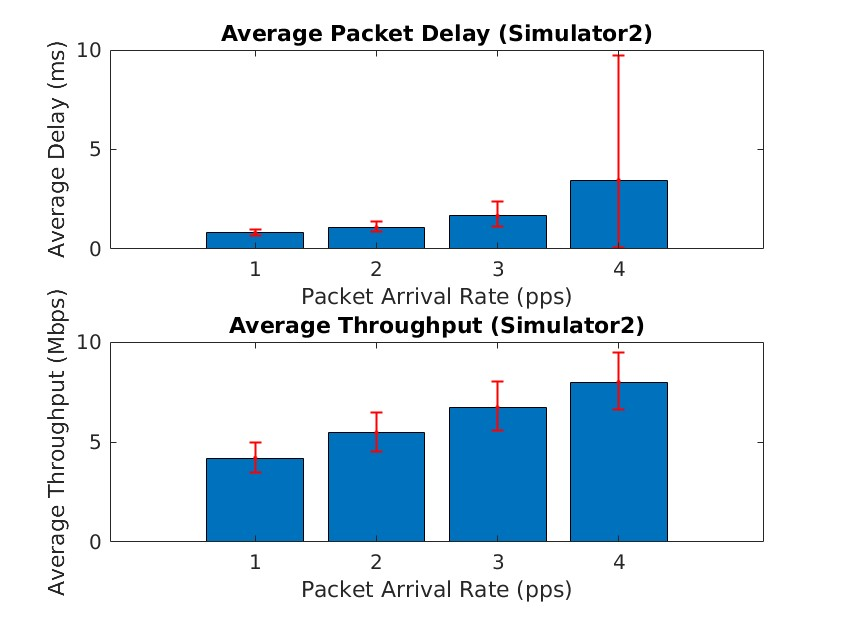
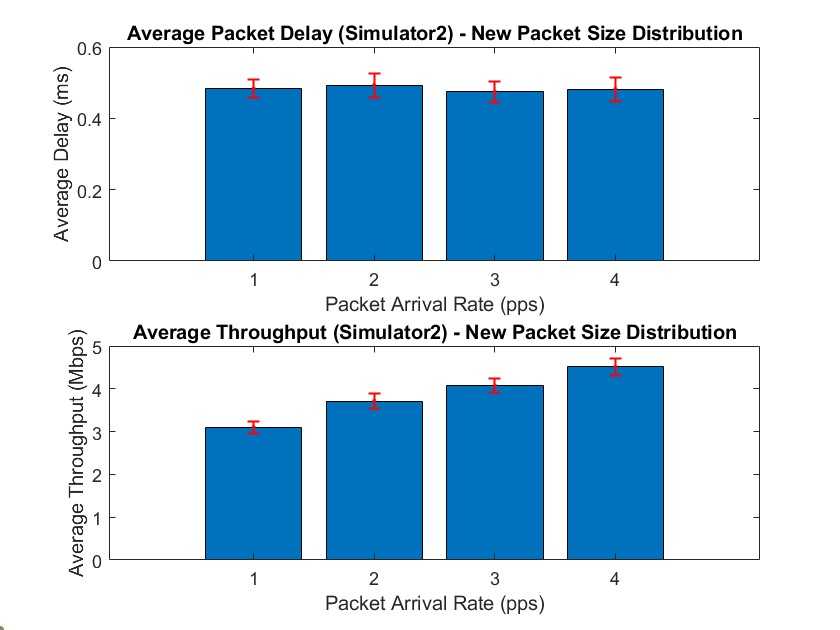
Exercises 1.c) , d) & e) improved

Changed region(s): [[0.0619, 0.0307, 0.8976, 0.7686], [0.031, 0.4612, 0.8976, 0.9838]]

diff --git a/task1/ex_1e.m b/task1/ex_1e.m
@@ -1,101 +1,115 @@
-%% From ex: 1.c
-
 C = 10;              % Link bandwidth (Mbps)
 f = 1e6;             % Queue size (Bytes)
 P = 1e5;             % Stopping criterion (number of packets)
 lambda_values = [1000, 1300, 1600, 1900];  % Packet arrival rate (pps)
 
-% Vectors to store the results
-average_packet_delay = zeros(length(lambda_values), 1);
-average_throughput = zeros(length(lambda_values), 1);
-confidence_intervals_delay = zeros(length(lambda_values), 2);
-confidence_intervals_throughput = zeros(length(lambda_values), 2);
+% Vectors to store the results for Simulator1 with new packet size distribution
+average_packet_delay_new_sizes_sim1 = zeros(length(lambda_values), 1);
+average_throughput_new_sizes_sim1 = zeros(length(lambda_values), 1);
+confidence_intervals_delay_new_sizes_sim1 = zeros(length(lambda_values), 2);
+confidence_intervals_throughput_new_sizes_sim1 = zeros(length(lambda_values), 2);
 
-% Run the simulator 20 times for each lambda value
+% Vectors to store the results for Simulator2 with new packet size distribution
+average_packet_delay_new_sizes_sim2 = zeros(length(lambda_values), 1);
+average_throughput_new_sizes_sim2 = zeros(length(lambda_values), 1);
+confidence_intervals_delay_new_sizes_sim2 = zeros(length(lambda_values), 2);
+confidence_intervals_throughput_new_sizes_sim2 = zeros(length(lambda_values), 2);
+
+% Define the new packet size probabilities
+packet_size_probabilities = [0.25, 0.17, 0.11];
+packet_sizes = [64, 110, 1518];
+num_simulations = 20;
+
 for i = 1:length(lambda_values)
     lambda = lambda_values(i);
-    num_simulations = 20;
-    delays = zeros(num_simulations, 1);
-    throughputs = zeros(num_simulations, 1);
     
-    for j = 1:num_simulations
-        [PL, APD, ~, TT] = Simulator1(lambda, C, f, P);
-        delays(j) = APD;
-        throughputs(j) = TT;
-    end
-    
-    % Calculate the mean and 90% confidence interval
-    average_packet_delay(i) = mean(delays);
-    confidence_intervals_delay(i, :) = prctile(delays, [5, 95]);
-    
-    average_throughput(i) = mean(throughputs);
-    confidence_intervals_throughput(i, :) = prctile(throughputs, [5, 95]);
-end
-
-% Bar Charts
-figure;
-subplot(2, 1, 1);
-bar(average_packet_delay);
-title('Average Packet Delay (Simulator1)');
-xlabel('Packet Arrival Rate (pps)');
-ylabel('Average Delay (ms)');
-hold on;
-errorbar(1:length(lambda_values), average_packet_delay, average_packet_delay - confidence_intervals_delay(:, 1), confidence_intervals_delay(:, 2) - average_packet_delay, 'r.', 'LineWidth', 1);
-
-subplot(2, 1, 2);
-bar(average_throughput);
-title('Average Throughput (Simulator1)');
-xlabel('Packet Arrival Rate (pps)');
-ylabel('Average Throughput (Mbps)');
-hold on;
-errorbar(1:length(lambda_values), average_throughput, average_throughput - confidence_intervals_throughput(:, 1), confidence_intervals_throughput(:, 2) - average_throughput, 'r.', 'LineWidth', 1);
-
-
-%--------------------------------------------------------------------------
-%% From ex: 1.d
-
-C = 10;              % Link bandwidth (Mbps)
-f = 1e6;             % Queue size (Bytes)
-P = 1e5;             % Stopping criterion (number of packets)
-b = 1e-5;            % Bit error rate
-lambda_values = [1000, 1300, 1600, 1900];  % Packet arrival rate (pps)
-
-% Vectors to store the results for Simulator2
-average_packet_delay_sim2 = zeros(length(lambda_values), 1);
-average_throughput_sim2 = zeros(length(lambda_values), 1);
-
-% Run the simulations for each lambda value and the specified BER
-for i = 1:length(lambda_values)
-    lambda = lambda_values(i);
-    num_simulations = 20;
+    % Create vectors to store results of simulations for both simulators
+    delays_sim1 = zeros(num_simulations, 1);
+    throughputs_sim1 = zeros(num_simulations, 1);
     delays_sim2 = zeros(num_simulations, 1);
     throughputs_sim2 = zeros(num_simulations, 1);
     
     for j = 1:num_simulations
-        [PL, APD, ~, TT] = Simulator2_e(lambda, C, f, P, b);
+        % Generate random packet sizes based on the specified probabilities
+        packet_size_sim1 = randsample(packet_sizes, 1, true, packet_size_probabilities);
+        packet_size_sim2 = randsample(packet_sizes, 1, true, packet_size_probabilities);
+        
+        % Run Simulator1 with new packet size
+        [PL, APD, ~, TT] = Simulator1(lambda, C, packet_size_sim1, P);
+        delays_sim1(j) = APD;
+        throughputs_sim1(j) = TT;
+        
+        % Run Simulator2 with new packet size and BER
+        [PL, APD, ~, TT] = Simulator2_e(lambda, C, packet_size_sim2, P, b);
         delays_sim2(j) = APD;
         throughputs_sim2(j) = TT;
     end
     
-    % Calculate the mean for Simulator2
-    average_packet_delay_sim2(i) = mean(delays_sim2);
-    average_throughput_sim2(i) = mean(throughputs_sim2);
+    % Calculate the mean and confidence interval for delay and throughput for both simulators
+    media = mean(delays_sim1);
+    term = norminv(0.95) * sqrt(var(delays_sim1) / num_simulations);
+    fprintf('Average Packet Delay for Simulator1 with lambda = %d: %.2f +- %.2f\n', lambda, media, term);
+    
+    average_packet_delay_new_sizes_sim1(i) = media;
+    confidence_intervals_delay_new_sizes_sim1(i, :) = [media - term, media + term];
+    
+    media = mean(throughputs_sim1);
+    term = norminv(0.95) * sqrt(var(throughputs_sim1) / num_simulations);
+    fprintf('Average Throughput for Simulator1 with lambda = %d: %.2f +- %.2f\n', lambda, media, term);
+    
+    average_throughput_new_sizes_sim1(i) = media;
+    confidence_intervals_throughput_new_sizes_sim1(i, :) = [media - term, media + term];
+    
+    media = mean(delays_sim2);
+    term = norminv(0.95) * sqrt(var(delays_sim2) / num_simulations);
+    fprintf('Average Packet Delay for Simulator2 with lambda = %d: %.2f +- %.2f\n', lambda, media, term);
+    
+    average_packet_delay_new_sizes_sim2(i) = media;
+    confidence_intervals_delay_new_sizes_sim2(i, :) = [media - term, media + term];
+    
+    media = mean(throughputs_sim2);
+    term = norminv(0.95) * sqrt(var(throughputs_sim2) / num_simulations);
+    fprintf('Average Throughput for Simulator2 with lambda = %d: %.2f +- %.2f\n', lambda, media, term);
+    
+    average_throughput_new_sizes_sim2(i) = media;
+    confidence_intervals_throughput_new_sizes_sim2(i, :) = [media - term, media + term];
 end
 
-% Display the results in bar charts for Simulator2
+% Bar Charts for Simulator1 with new packet size distribution
 figure;
 subplot(2, 1, 1);
-bar(average_packet_delay_sim2);
-title('Average Packet Delay (Simulator2)');
+bar(average_packet_delay_new_sizes_sim1);
+title('Average Packet Delay (Simulator1) - New Packet Size Distribution');
 xlabel('Packet Arrival Rate (pps)');
 ylabel('Average Delay (ms)');
 hold on;
-errorbar(1:length(lambda_values), average_packet_delay_sim2, average_packet_delay_sim2 - confidence_intervals_delay(:, 1), confidence_intervals_delay(:, 2) - average_packet_delay_sim2, 'r.', 'LineWidth', 1);
+errorbar(1:length(lambda_values), average_packet_delay_new_sizes_sim1, average_packet_delay_new_sizes_sim1 - confidence_intervals_delay_new_sizes_sim1(:, 1), confidence_intervals_delay_new_sizes_sim1(:, 2) - average_packet_delay_new_sizes_sim1, 'r.', 'LineWidth', 1);
 
 subplot(2, 1, 2);
-bar(average_throughput_sim2);
-title('Average Throughput (Simulator2)');
+bar(average_throughput_new_sizes_sim1);
+title('Average Throughput (Simulator1) - New Packet Size Distribution');
 xlabel('Packet Arrival Rate (pps)');
 ylabel('Average Throughput (Mbps)');
 hold on;
-errorbar(1:length(lambda_values), average_throughput_sim2, average_throughput_sim2 - confidence_intervals_throughput(:, 1), confidence_intervals_throughput(:, 2) - average_throughput_sim2, 'r.', 'LineWidth', 1);
+errorbar(1:length(lambda_values), average_throughput_new_sizes_sim1, average_throughput_new_sizes_sim1 - confidence_intervals_throughput_new_sizes_sim1(:, 1), confidence_intervals_throughput_new_sizes_sim1(:, 2) - average_throughput_new_sizes_sim1, 'r.', 'LineWidth', 1);
+
+% Bar Charts for Simulator2 with new packet size distribution
+figure;
+subplot(2, 1, 1);
+bar(average_packet_delay_new_sizes_sim2);
+title('Average Packet Delay (Simulator2) - New Packet Size Distribution');
+xlabel('Packet Arrival Rate (pps)');
+ylabel('Average Delay (ms)');
+hold on;
+errorbar(1:length(lambda_values), average_packet_delay_new_sizes_sim2, average_packet_delay_new_sizes_sim2 - confidence_intervals_delay_new_sizes_sim2(:, 1), confidence_intervals_delay_new_sizes_sim2(:, 2) - average_packet_delay_new_sizes_sim2, 'r.', 'LineWidth', 1);
+
+subplot(2, 1, 2);
+bar(average_throughput_new_sizes_sim2);
+title('Average Throughput (Simulator2) - New Packet Size Distribution');
+xlabel('Packet Arrival Rate (pps)');
+ylabel('Average Throughput (Mbps)');
+hold on;
+errorbar(1:length(lambda_values), average_throughput_new_sizes_sim2, average_throughput_new_sizes_sim2 - confidence_intervals_throughput_new_sizes_sim2(:, 1), confidence_intervals_throughput_new_sizes_sim2(:, 2) - average_throughput_new_sizes_sim2, 'r.', 'LineWidth', 1);
+
+
+

diff --git a/task1/ex_1d.m b/task1/ex_1d.m
@@ -1,31 +1,45 @@
-%% EXERCISE 1.d)
-
 C = 10;              % Link bandwidth (Mbps)
 f = 1e6;             % Queue size (Bytes)
 P = 1e5;             % Stopping criterion (number of packets)
 b = 1e-5;            % Bit error rate
 lambda_values = [1000, 1300, 1600, 1900];  % Packet arrival rate (pps)
 
+N = 20; % Number of simulations
+
 % Vectors to store the results for Simulator2
 average_packet_delay_sim2 = zeros(length(lambda_values), 1);
 average_throughput_sim2 = zeros(length(lambda_values), 1);
+confidence_intervals_delay_sim2 = zeros(length(lambda_values), 2);
+confidence_intervals_throughput_sim2 = zeros(length(lambda_values), 2);
 
-% Run the simulations for each lambda value and the specified BER
 for i = 1:length(lambda_values)
     lambda = lambda_values(i);
-    num_simulations = 20;
-    delays_sim2 = zeros(num_simulations, 1);
-    throughputs_sim2 = zeros(num_simulations, 1);
     
-    for j = 1:num_simulations
+    % Create vectors to store results of simulations for Simulator2
+    delays_sim2 = zeros(N, 1);
+    throughputs_sim2 = zeros(N, 1);
+    
+    for j = 1:N
         [PL, APD, ~, TT] = Simulator2(lambda, C, f, P, b);
         delays_sim2(j) = APD;
         throughputs_sim2(j) = TT;
     end
     
-    % Calculate the mean for Simulator2
-    average_packet_delay_sim2(i) = mean(delays_sim2);
-    average_throughput_sim2(i) = mean(throughputs_sim2);
+    % Calculate the mean and confidence interval for delay for Simulator2
+    media = mean(delays_sim2);
+    term = norminv(0.95) * sqrt(var(delays_sim2) / N);
+    fprintf('Average Packet Delay for Simulator2 with lambda = %d: %.2f +- %.2f\n', lambda, media, term);
+    
+    average_packet_delay_sim2(i) = media;
+    confidence_intervals_delay_sim2(i, :) = [media - term, media + term];
+    
+    % Calculate the mean and confidence interval for throughput for Simulator2
+    media = mean(throughputs_sim2);
+    term = norminv(0.95) * sqrt(var(throughputs_sim2) / N);
+    fprintf('Average Throughput for Simulator2 with lambda = %d: %.2f +- %.2f\n', lambda, media, term);
+    
+    average_throughput_sim2(i) = media;
+    confidence_intervals_throughput_sim2(i, :) = [media - term, media + term];
 end
 
 % Display the results in bar charts for Simulator2
@@ -36,7 +50,7 @@ title('Average Packet Delay (Simulator2)');
 xlabel('Packet Arrival Rate (pps)');
 ylabel('Average Delay (ms)');
 hold on;
-errorbar(1:length(lambda_values), average_packet_delay_sim2, average_packet_delay_sim2 - confidence_intervals_delay(:, 1), confidence_intervals_delay(:, 2) - average_packet_delay_sim2, 'r.', 'LineWidth', 1);
+errorbar(1:length(lambda_values), average_packet_delay_sim2, average_packet_delay_sim2 - confidence_intervals_delay_sim2(:, 1), confidence_intervals_delay_sim2(:, 2) - average_packet_delay_sim2, 'r.', 'LineWidth', 1);
 
 subplot(2, 1, 2);
 bar(average_throughput_sim2);
@@ -44,4 +58,4 @@ title('Average Throughput (Simulator2)');
 xlabel('Packet Arrival Rate (pps)');
 ylabel('Average Throughput (Mbps)');
 hold on;
-errorbar(1:length(lambda_values), average_throughput_sim2, average_throughput_sim2 - confidence_intervals_throughput(:, 1), confidence_intervals_throughput(:, 2) - average_throughput_sim2, 'r.', 'LineWidth', 1);
+errorbar(1:length(lambda_values), average_throughput_sim2, average_throughput_sim2 - confidence_intervals_throughput_sim2(:, 1), confidence_intervals_throughput_sim2(:, 2) - average_throughput_sim2, 'r.', 'LineWidth', 1);

diff --git a/task1/ex_1c.m b/task1/ex_1c.m
@@ -1,9 +1,9 @@
-%% EXERCISE 1.c)
-
 C = 10;              % Link bandwidth (Mbps)
 f = 1e6;             % Queue size (Bytes)
 P = 1e5;             % Stopping criterion (number of packets)
 lambda_values = [1000, 1300, 1600, 1900];  % Packet arrival rate (pps)
+
+N = 20; % Number of simulations
 
 % Vectors to store the results
 average_packet_delay = zeros(length(lambda_values), 1);
@@ -11,25 +11,34 @@ average_throughput = zeros(length(lambda_values), 1);
 confidence_intervals_delay = zeros(length(lambda_values), 2);
 confidence_intervals_throughput = zeros(length(lambda_values), 2);
 
-% Run the simulator 20 times for each lambda value
 for i = 1:length(lambda_values)
     lambda = lambda_values(i);
-    num_simulations = 20;
-    delays = zeros(num_simulations, 1);
-    throughputs = zeros(num_simulations, 1);
     
-    for j = 1:num_simulations
+    % Create vectors to store results of simulations
+    delays = zeros(N, 1);
+    throughputs = zeros(N, 1);
+    
+    for j = 1:N
         [PL, APD, ~, TT] = Simulator1(lambda, C, f, P);
         delays(j) = APD;
         throughputs(j) = TT;
     end
     
-    % Calculate the mean and 90% confidence interval
-    average_packet_delay(i) = mean(delays);
-    confidence_intervals_delay(i, :) = prctile(delays, [5, 95]);
+    % Calculate the mean and confidence interval for delay
+    media = mean(delays);
+    term = norminv(0.95) * sqrt(var(delays) / N);
+    fprintf('Average Packet Delay for lambda = %d: %.2f +- %.2f\n', lambda, media, term);
     
-    average_throughput(i) = mean(throughputs);
-    confidence_intervals_throughput(i, :) = prctile(throughputs, [5, 95]);
+    average_packet_delay(i) = media;
+    confidence_intervals_delay(i, :) = [media - term, media + term];
+    
+    % Calculate the mean and confidence interval for throughput
+    media = mean(throughputs);
+    term = norminv(0.95) * sqrt(var(throughputs) / N);
+    fprintf('Average Throughput for lambda = %d: %.2f +- %.2f\n', lambda, media, term);
+    
+    average_throughput(i) = media;
+    confidence_intervals_throughput(i, :) = [media - term, media + term];
 end
 
 % Bar Charts
